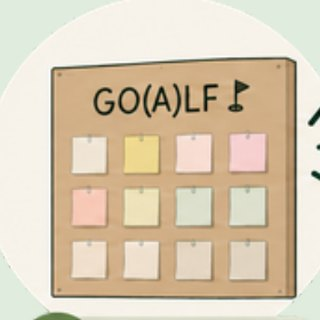
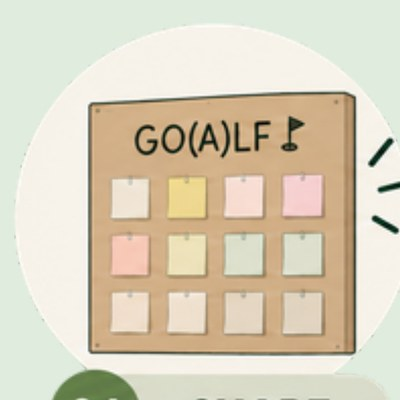
Align poster crops to panel edges, raise image resolution
The artwork was cropped with hand-estimated coordinates, so panels sat
at uneven margins and some label chips were cut in half. Crops are now
taken from boxes detected on the page itself:

- Render the poster at 400 dpi instead of 220
- Detect each panel's bounding box by its mint fill, and cut below the
  label chip that overlaps its top edge
- Detect the four How It Works circles and the three interaction cards
  so each set is identically sized and centred
- Crop the budget sheet at the dashed divider, keeping the title and the
  image column whole
- Export at roughly 2x display width and declare width/height on every
  image so nothing shifts while the page loads
- Let interaction card images keep their own aspect ratio

Credit the project to University of Utah — Urban Ecology instead of
Group 2.

Claude-Session: https://claude.ai/code/session_01X6hUeDPLV6yPLBN9Fmkdq1

diff --git a/index.html b/index.html
@@ -4,7 +4,7 @@
 <meta charset="utf-8">
 <meta name="viewport" content="width=device-width, initial-scale=1, viewport-fit=cover">
 <title>GO(A)LF — Park(ing) Day</title>
-<meta name="description" content="GO(A)LF combines a wish activity with a simple mini-golf experience. A Park(ing) Day installation for CMP 4280, Songdo, Yeonsu-gu.">
+<meta name="description" content="GO(A)LF combines a wish activity with a simple mini-golf experience. A Park(ing) Day project for Urban Ecology, University of Utah. Songdo, Yeonsu-gu.">
 <meta name="theme-color" content="#6F9074">
 
 <link rel="icon" href="assets/icon.svg" type="image/svg+xml">
@@ -49,7 +49,7 @@
     <li><a href="#install"><span class="idx">08</span>Installation</a></li>
     <li><a href="#posters"><span class="idx">09</span>Poster Sheets</a></li>
   </ol>
-  <p class="nav-foot">CMP 4280 · Park(ing) Day · Songdo</p>
+  <p class="nav-foot">University of Utah · Urban Ecology · Park(ing) Day</p>
 </nav>
 
 <main class="shell" id="top">
@@ -63,7 +63,7 @@
 
     <div class="hero-card">
       <div class="hero-visual">
-        <img src="assets/img/hero.jpg" alt="Rendering of the GO(A)LF installation: two mini-golf lanes, a wish station and a shaded seating area on the street." fetchpriority="high">
+        <img src="assets/img/hero.jpg" alt="Rendering of the GO(A)LF installation: two mini-golf lanes, a wish station and a shaded seating area on the street." fetchpriority="high" width="1400" height="701">
       </div>
     </div>
 
@@ -105,7 +105,7 @@
         <p class="v">Yeonsu-gu<br>2nd Office<small>West frontage, Songdo</small></p>
       </div>
       <div class="tile tile--img">
-        <img src="assets/img/sketches.jpg" alt="Hand sketches of the course layout, wish station and seating area." loading="lazy">
+        <img src="assets/img/sketches.jpg" alt="Hand sketches of the course layout, wish station and seating area." loading="lazy" width="1150" height="516">
       </div>
       <div class="tile tile--card">
         <p class="k">Footprint</p>
@@ -132,22 +132,22 @@
 
     <ol class="flow rv">
       <li>
-        <span class="ic"><img src="assets/img/step-1.jpg" alt="" loading="lazy"></span>
+        <span class="ic"><img src="assets/img/step-1.jpg" alt="" loading="lazy" width="400" height="400"></span>
         <div class="tx"><span class="n">01</span><h3>Write</h3>
           <p>Write a personal goal or wish on a small slip at the wish station.</p></div>
       </li>
       <li>
-        <span class="ic"><img src="assets/img/step-2.jpg" alt="" loading="lazy"></span>
+        <span class="ic"><img src="assets/img/step-2.jpg" alt="" loading="lazy" width="400" height="400"></span>
         <div class="tx"><span class="n">02</span><h3>Putt</h3>
           <p>Place the note inside a gatchapon capsule and play it down the course.</p></div>
       </li>
       <li>
-        <span class="ic"><img src="assets/img/step-3.jpg" alt="" loading="lazy"></span>
+        <span class="ic"><img src="assets/img/step-3.jpg" alt="" loading="lazy" width="400" height="400"></span>
         <div class="tx"><span class="n">03</span><h3>Collect</h3>
           <p>Complete the course and drop the capsule into the collection box.</p></div>
       </li>
       <li>
-        <span class="ic"><img src="assets/img/step-4.jpg" alt="" loading="lazy"></span>
+        <span class="ic"><img src="assets/img/step-4.jpg" alt="" loading="lazy" width="400" height="400"></span>
         <div class="tx"><span class="n">04</span><h3>Share</h3>
           <p>Selected wishes are displayed on the GO(A)LF board for everyone passing by.</p></div>
       </li>
@@ -163,21 +163,21 @@
 
     <div class="hscroll rv">
       <article class="hcard">
-        <div class="ph"><img src="assets/img/interact-1.jpg" alt="People playing the mini-golf course together." loading="lazy"></div>
+        <div class="ph"><img src="assets/img/interact-1.jpg" alt="People playing the mini-golf course together." loading="lazy" width="820" height="679"></div>
         <div class="bd">
           <h3>Play Together</h3>
           <p>Friends, classmates and passers-by can play the mini-golf course together and enjoy a short break in the city.</p>
         </div>
       </article>
       <article class="hcard">
-        <div class="ph"><img src="assets/img/interact-2.jpg" alt="People reading wishes on the GO(A)LF board." loading="lazy"></div>
+        <div class="ph"><img src="assets/img/interact-2.jpg" alt="People reading wishes on the GO(A)LF board." loading="lazy" width="820" height="679"></div>
         <div class="bd">
           <h3>Share &amp; Discover</h3>
           <p>People read each other's wishes on the GO(A)LF board, find inspiration, and start conversations.</p>
         </div>
       </article>
       <article class="hcard">
-        <div class="ph"><img src="assets/img/interact-3.jpg" alt="People resting on the cardboard benches under the canopy." loading="lazy"></div>
+        <div class="ph"><img src="assets/img/interact-3.jpg" alt="People resting on the cardboard benches under the canopy." loading="lazy" width="820" height="679"></div>
         <div class="bd">
           <h3>Rest &amp; Connect</h3>
           <p>The shaded seating area offers a space to relax, chat and connect with others in a greener, friendlier street.</p>
@@ -196,7 +196,7 @@
     </div>
 
     <figure class="poster rv">
-      <img src="assets/img/details.jpg" alt="Dimensioned axonometric of the installation inside a 5 by 2 metre bay." loading="lazy">
+      <img src="assets/img/details.jpg" alt="Dimensioned axonometric of the installation inside a 5 by 2 metre bay." loading="lazy" width="1150" height="516">
       <figcaption>Dimensioned axonometric</figcaption>
     </figure>
 
@@ -220,12 +220,12 @@
     </div>
 
     <figure class="poster rv">
-      <img src="assets/img/slope.jpg" alt="Three steps of the slope: cardboard base, glued fan, combined with the course." loading="lazy">
+      <img src="assets/img/slope.jpg" alt="Three steps of the slope: cardboard base, glued fan, combined with the course." loading="lazy" width="1150" height="423">
       <figcaption>Slope — base · glue &amp; shape · combine</figcaption>
     </figure>
 
     <figure class="poster rv">
-      <img src="assets/img/chair.jpg" alt="Steps of the cardboard chair: filling a box with rolled tubes, closing it, lining boxes up into a bench." loading="lazy">
+      <img src="assets/img/chair.jpg" alt="Steps of the cardboard chair: filling a box with rolled tubes, closing it, lining boxes up into a bench." loading="lazy" width="1150" height="471">
       <figcaption>Chair — fill · close · line up into a bench</figcaption>
     </figure>
 
@@ -258,7 +258,7 @@
     </div>
 
     <figure class="poster rv">
-      <img src="assets/img/materials.jpg" alt="Main materials board from the poster with photos and prices." loading="lazy">
+      <img src="assets/img/materials.jpg" alt="Main materials board from the poster with photos and prices." loading="lazy" width="1400" height="551">
       <figcaption>Main materials board</figcaption>
     </figure>
   </section>
@@ -304,6 +304,11 @@
       </div>
     </div>
 
+    <figure class="poster rv">
+      <img src="assets/img/budget.jpg" alt="The poster's own budget sheet, with item images, totals and the saved contingency." loading="lazy" width="1250" height="1007">
+      <figcaption>Budget sheet</figcaption>
+    </figure>
+
     <a class="cta rv" href="https://docs.google.com/document/d/1C57bAPRhw7lZpW-t0zIiSxaUajTN1OhW2i5v278Espc/edit?usp=sharing" target="_blank" rel="noopener">
       Check the material list ↗
     </a>
@@ -325,7 +330,7 @@
     </ol>
 
     <figure class="poster rv">
-      <img src="assets/img/install.jpg" alt="Four diagrams of the site application process, from the base mat to the finished canopy." loading="lazy">
+      <img src="assets/img/install.jpg" alt="Four diagrams of the site application process, from the base mat to the finished canopy." loading="lazy" width="1400" height="516">
       <figcaption>Site application process</figcaption>
     </figure>
   </section>
@@ -338,11 +343,11 @@
       <p>Both sheets as submitted.</p>
     </div>
     <figure class="poster rv">
-      <img src="assets/img/sheet-01.jpg" alt="Poster sheet 1: concept rendering, details, sketches, slope-making and chair-making process." loading="lazy">
+      <img src="assets/img/sheet-01.jpg" alt="Poster sheet 1: concept rendering, details, sketches, slope-making and chair-making process." loading="lazy" width="1500" height="2122">
       <figcaption>Sheet 01 — concept &amp; process</figcaption>
     </figure>
     <figure class="poster rv">
-      <img src="assets/img/sheet-02.jpg" alt="Poster sheet 2: main materials, approximate budget and site application process." loading="lazy">
+      <img src="assets/img/sheet-02.jpg" alt="Poster sheet 2: main materials, approximate budget and site application process." loading="lazy" width="1500" height="2122">
       <figcaption>Sheet 02 — materials &amp; budget</figcaption>
     </figure>
     <a class="cta ghost rv" href="assets/GOALF-poster.pdf" target="_blank" rel="noopener">Download the poster (PDF) ↓</a>
@@ -371,9 +376,10 @@
       <li><a href="#top">Back to top ↑</a></li>
     </ul>
     <p class="foot-meta">
-      CMP 4280 — Park(ing) Day Project · Group 2<br>
+      University of Utah — Urban Ecology<br>
+      Park(ing) Day Project · CMP 4280<br>
       Site: Yeonsu-gu 2nd Office, Songdo, Incheon<br>
-      © 2026 GO(A)LF Team
+      © 2026 GO(A)LF
     </p>
   </footer>
 

diff --git a/css/style.css b/css/style.css
@@ -433,11 +433,8 @@ tfoot td{
   border:1px solid var(--line);
 }
 .section--green .hcard{border-color:transparent}
-.hcard .ph{
-  aspect-ratio:16/10;background:var(--green-100);
-  overflow:hidden;
-}
-.hcard .ph img{width:100%;height:100%;object-fit:cover}
+.hcard .ph{background:var(--green-100)}
+.hcard .ph img{width:100%;height:auto;display:block}
 .hcard .bd{padding:14px 15px 17px}
 .hcard h3{font-family:var(--ff-display);font-weight:700;font-size:15.5px;margin:0 0 5px}
 .hcard p{margin:0;font-size:12.5px;color:var(--ink-soft)}
@@ -523,7 +520,7 @@ tfoot td{
 @media (min-width:900px){
   body{background:var(--green-050)}
   body::before{
-    content:"GO(A)LF · PARK(ING) DAY 2026 · CMP 4280";
+    content:"GO(A)LF · PARK(ING) DAY · UNIVERSITY OF UTAH URBAN ECOLOGY";
     position:fixed;left:30px;bottom:34px;
     transform:rotate(-90deg);transform-origin:left bottom;
     font-size:10.5px;letter-spacing:.3em;text-transform:uppercase;

diff --git a/README.md b/README.md
@@ -1,7 +1,7 @@
 # GO(A)LF — Park(ing) Day Project Site
 
 A mobile-sized (phone-width) one-page site for the **GO(A)LF** Park(ing) Day
-installation, made for **CMP 4280**.
+installation — Urban Ecology, University of Utah (CMP 4280).
 
 GO(A)LF combines a wish activity with a simple mini-golf experience: visitors
 write a personal goal, seal it in a gatchapon capsule, putt it down the course,
@@ -27,7 +27,8 @@ js/main.js          drawer nav, scroll reveal, reading-progress bar
 site.webmanifest    name + icons for "add to home screen"
 assets/icon.svg     tab icon (green tile, white golf flag)
 assets/icon-*.png   32px favicon, 180px apple-touch, 512px manifest
-assets/img/         artwork rendered from the poster PDF at 220 dpi
+assets/img/         artwork rendered from the poster PDF at 400 dpi,
+                    cropped to panel edges detected from the page itself
 assets/GOALF-poster.pdf   the submitted poster, linked for download
 ```
 
